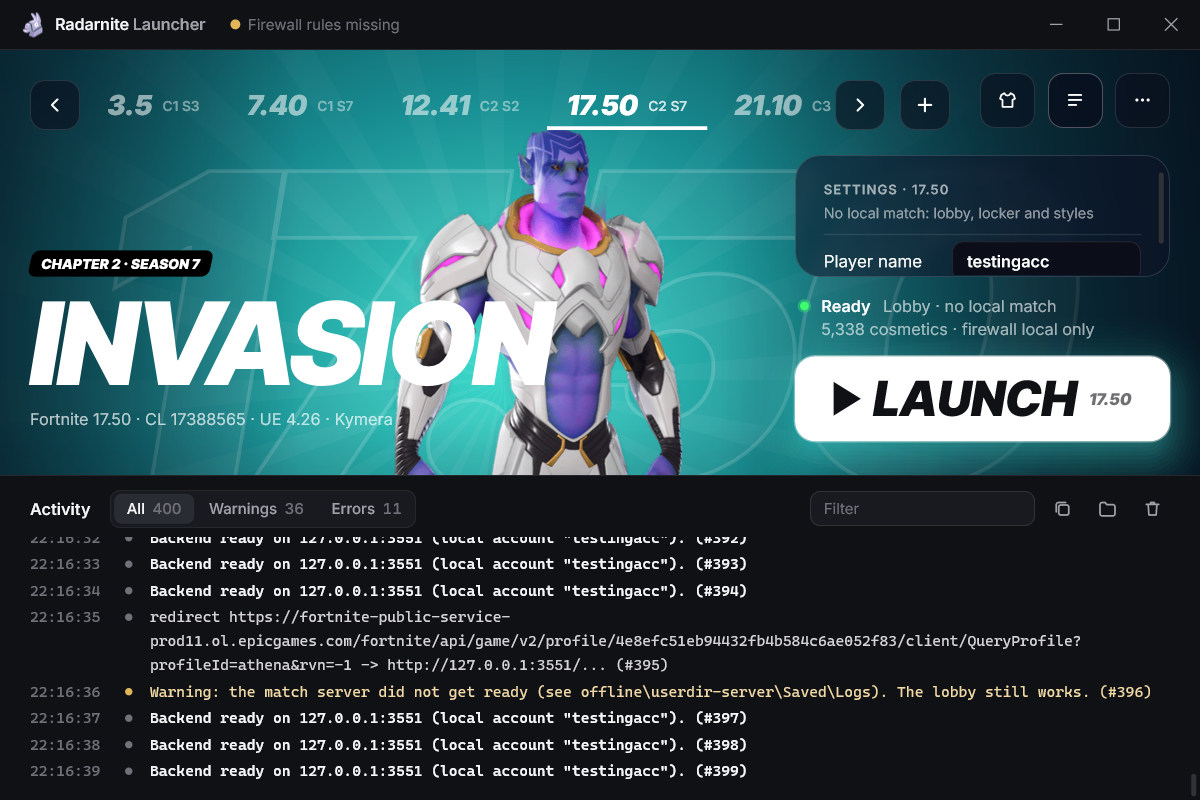
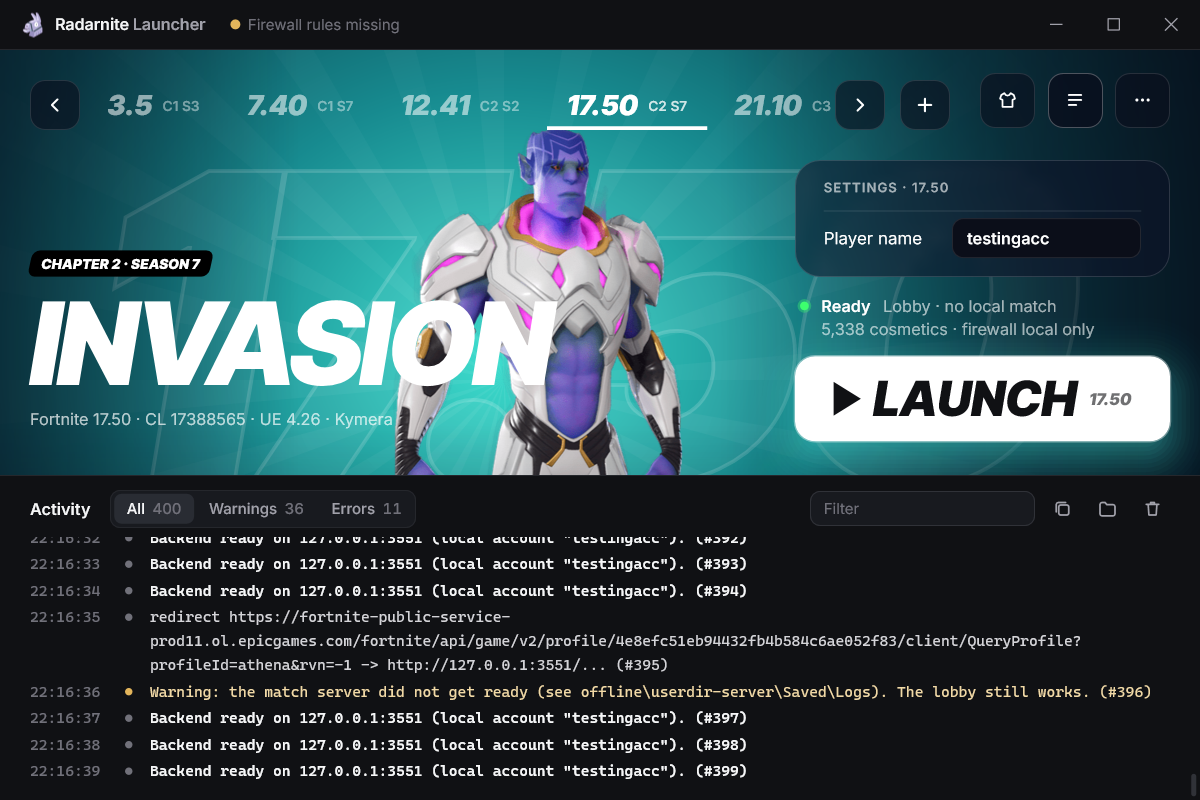
Native UI: settings panel fits short views, toasts stay below the top row
Short views drop the panel's subtitle and some top air for every build, so a
lobby-only build shows its Player name without scrolling; unsupported builds
say so in the subtitle. Toasts no longer climb over the top row when the panel
is tall. New scenarios: a toast at 760x520 and the match settings at the
mockup's size.

Changed region(s): [[0.6475, 0.1875, 0.925, 0.3438], [0.9558, 0.2188, 0.9867, 0.2812]]

diff --git a/native/ui/mock_api.cpp b/native/ui/mock_api.cpp
@@ -102,6 +102,7 @@ const MockScenario kScenarios[] = {
     { L"20-match-server-bots-form", 1200, 800, 1.0f, false },
     { L"21-match-server-ai-on-900-125", 900, 640, 1.25f, false },
     { L"22-build-menu-toast", 1200, 800, 1.0f, false, 2 },
+    { L"22-toast-760x520", 760, 520, 1.0f, false },
     { L"23-keyboard-focus-switch", 1200, 800, 1.0f, false, 0, 18 },
     // the lobby screen at the mockup's size, at 125 % and at the minimum window size
     { L"24-lobby-1280x800", 1280, 800, 1.0f, false },
@@ -132,9 +133,10 @@ const MockScenario kScenarios[] = {
     { L"44-port-sheet-history-end", 1280, 800, 1.0f, false, 0, 0, 9 },
     { L"45-port-sheet-player", 1280, 800, 1.0f, false, 0, 0, 10 },
     { L"46-port-sheet-1920-125", 1536, 864, 1.25f, false, 0, 0, 8 },
-    // the poster main screen at the mockup's size (2560x1380 at 125 %) and its always-open match settings at 1280x800
-    // and at the minimum size (their content scrolls), with and without Activity
+    // the poster main screen at the mockup's size (2560x1380 at 125 %), lobby only and with a local match; the always-open
+    // match settings at 1280x800 and at the minimum size (their content scrolls), with and without Activity
     { L"47-poster-2048x1104-125", 2048, 1104, 1.25f, false },
+    { L"48-poster-settings-2048x1104-125", 2048, 1104, 1.25f, false },
     { L"49-poster-settings-1280x800", 1280, 800, 1.0f, false },
     { L"50-poster-settings-760x520", 760, 520, 1.0f, false },
     { L"51-poster-settings-activity-760x520", 760, 520, 1.0f, true },
@@ -276,12 +278,12 @@ public:
         else if (id.rfind(L"23-", 0) == 0) { st.builds = withServer(many()); st.config.mode = L"bots"; st.selected = L"17.50"; }
         else if (id.rfind(L"21-", 0) == 0) { st.builds = withServer(many()); st.config.mode = L"bots"; st.config.botsAI = true; st.selected = L"17.50"; }
         else if (id.rfind(L"22-", 0) == 0) { st.builds = withServer(many()); st.selected = L"12.41"; post = logs(5); }
-        else if (id.rfind(L"24-", 0) == 0 || id.rfind(L"25-", 0) == 0 || id.rfind(L"26-", 0) == 0 || (_wtoi(id.c_str()) >= 43 && _wtoi(id.c_str()) <= 48)) {
+        else if (id.rfind(L"24-", 0) == 0 || id.rfind(L"25-", 0) == 0 || id.rfind(L"26-", 0) == 0 || (_wtoi(id.c_str()) >= 43 && _wtoi(id.c_str()) <= 47)) {
             st.builds = lobby(); st.selected = L"14.30"; st.config.displayName = L"GoldenTiger86";
             LogLine l; l.ts = L"22:09:58"; l.text = L"Backend ready on 127.0.0.1:3551 (local account \"GoldenTiger86\")."; post.push_back(l);
             l.text = L"Warning: the match server did not get ready (see offline\\userdir-server\\Saved\\Logs). The lobby still works."; l.level = Level::Warn; post.push_back(l);
         }
-        else if (_wtoi(id.c_str()) >= 49 && _wtoi(id.c_str()) <= 52) { st.builds = withServer(many()); st.config.mode = L"bots"; st.config.bots = 35; st.selected = L"17.50"; post = logs(40); }   // the match settings
+        else if (_wtoi(id.c_str()) >= 48 && _wtoi(id.c_str()) <= 52) { st.builds = withServer(many()); st.config.mode = L"bots"; st.config.bots = 35; st.selected = L"17.50"; post = logs(40); }   // the match settings
         else if (id.rfind(L"42-", 0) == 0) { st.builds = lobby(); st.selected = L"14.30"; st.config.displayName = L"GoldenTiger86"; }
         else if (portScenario()) { st.builds = { b1750(), b1430() }; st.selected = L"14.30"; }
         lock(); state_ = st; unlock();

diff --git a/native/ui/ui.cpp b/native/ui/ui.cpp
@@ -874,6 +874,7 @@ void App::paint(float W, float H) {
     if (playShown_ && !pOpen_) hit(ID_PLAY, playRect_, F_FOCUS | F_HAND | (playDisabled_ ? F_DISABLED : 0), playRadius_);   // the last control, like the page
     toastRight_ = pOpen_ ? W - 24 : W - mx;
     toastBottom_ = pOpen_ ? actTop - 24 : dockTop - 12;
+    if (!pOpen_) toastBottom_ = std::min(actTop - 24, std::max(toastBottom_, TB + 76 + 64));   // a tall settings panel: over its top, never over the top row
     drawMenu();
     drawPortOverlays();
     drawToasts(W, H);
@@ -1511,7 +1512,7 @@ float App::drawSettings(float x, float w, float top, float bottom) {
     measuring_ = true;
     settingsCompact_ = false;
     float ch = settingsBody(x + 23, 18, w - 46) + 8;   // padding 18 22 8 (+ the 1px border); the last row has its own air
-    if (ch + 2 > bottom - top) { settingsCompact_ = true; ch = settingsBody(x + 23, 18, w - 46) + 8; }   // short: no subtitle
+    if (ch + 2 > bottom - top) { settingsCompact_ = true; ch = settingsBody(x + 23, 12, w - 46) + 8; }   // short: no subtitle, less air
     measuring_ = false;
     float h = std::max(0.f, std::min(ch + 2, bottom - top));
     if (h < 40) return bottom;   // no room at all (Activity over a tiny window): the status line and Launch only
@@ -1530,7 +1531,7 @@ float App::drawSettings(float x, float w, float top, float bottom) {
     base_ = D2D1::Matrix3x2F::Translation(0, oy_);
     rt_->SetTransform(base_);
     inContent_ = true;
-    settingsBody(x + 23, 18, w - 46);
+    settingsBody(x + 23, settingsCompact_ ? 12.f : 18.f, w - 46);
     inContent_ = false;
     base_ = D2D1::Matrix3x2F::Identity(); oy_ = 0;
     rt_->SetTransform(base_);
@@ -1550,11 +1551,11 @@ float App::settingsBody(float x, float y0, float w) {
     const float hh = 17.4f, sh = 16.7f;
     text((hasMatch ? L"MATCH SETTINGS · " : L"SETTINGS · ") + verLabel(*b), lf, x, y, w, hh, C::white, 0, .84f, .62f);
     y += hh + 2;
-    const wchar_t* sub = !hasMatch ? L"No local match on this build: lobby, locker and styles"
+    const wchar_t* sub = dis ? L"Not supported on this build" : !hasMatch ? L"No local match on this build: lobby, locker and styles"
                        : L"Battle Royale · Creative/Playground always has infinite materials and ammo";
     if (hasMatch && textW(sub, df) > w) sub = L"For Battle Royale matches";
     if (!hasMatch && textW(sub, df) > w) sub = L"No local match: lobby, locker and styles";
-    if (!settingsCompact_ || !hasMatch) { text(sub, df, x, y, w, sh, C::white, 0, 0, .55f); y += sh; }
+    if (!settingsCompact_) { text(sub, df, x, y, w, sh, C::white, 0, 0, .55f); y += sh; }
     y += 8;
     float a0 = alpha_;
     if (dis) { alpha_ = .5f * a0; noHit_ = true; }
